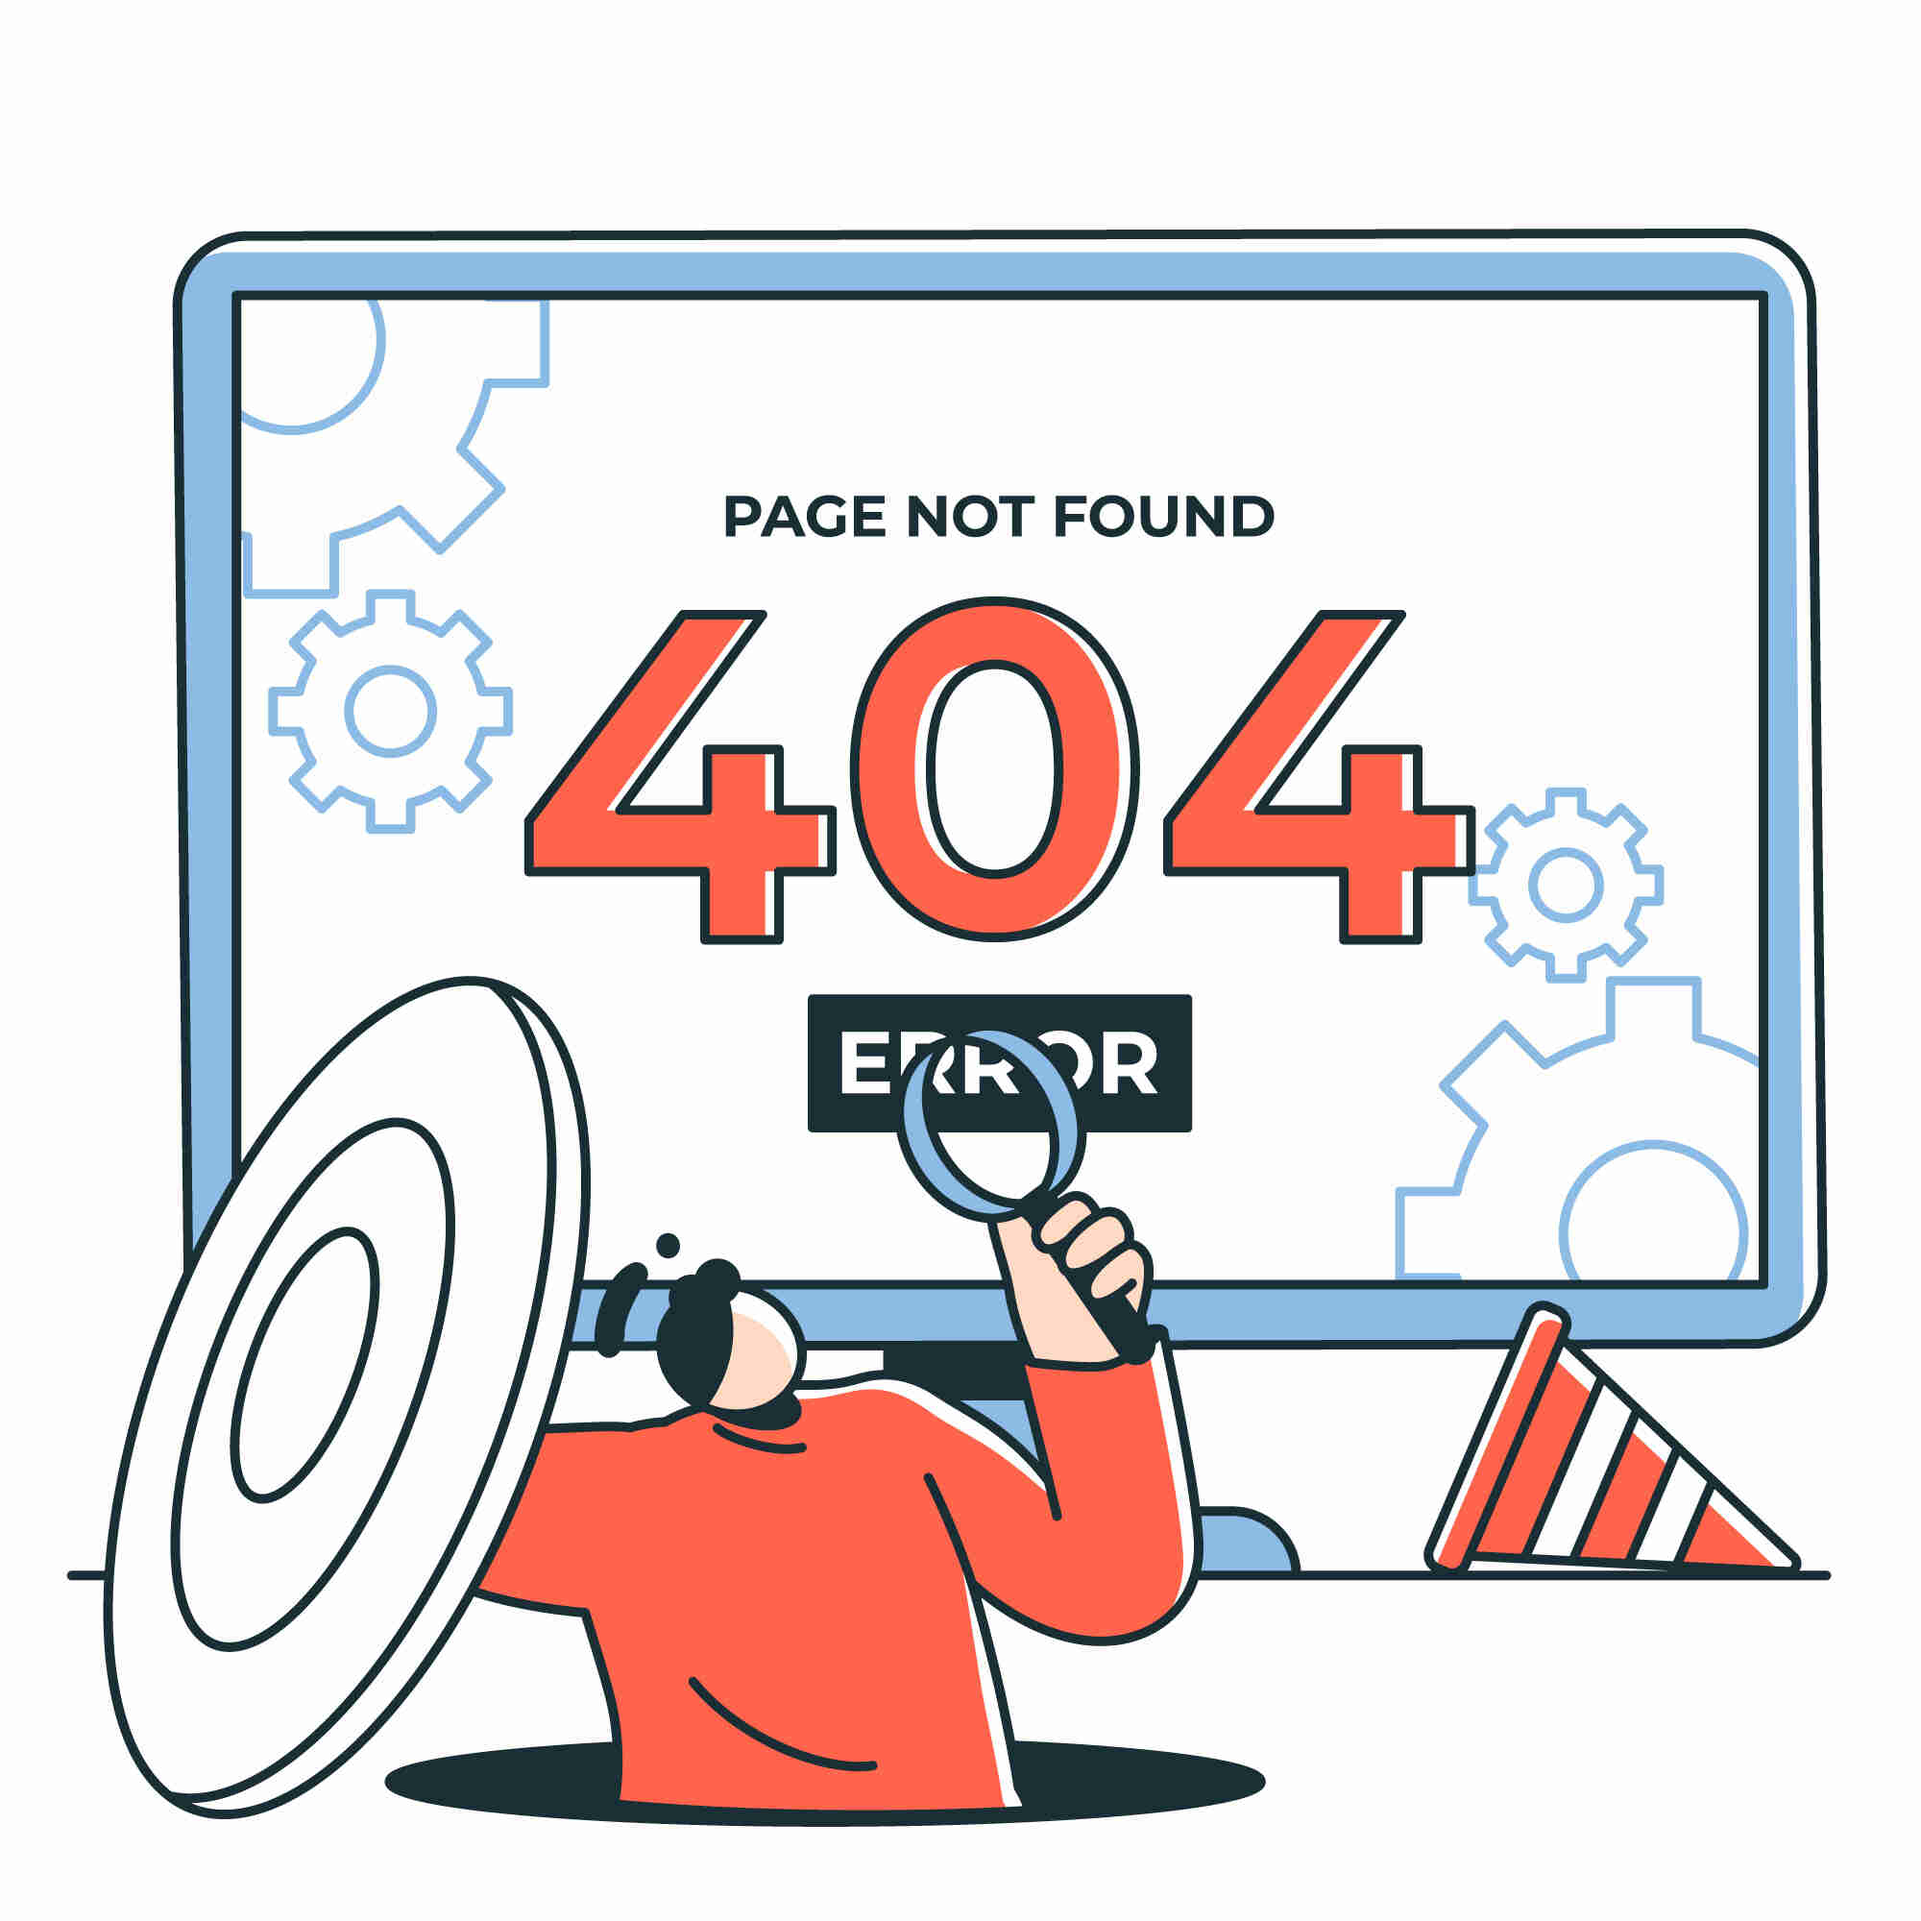
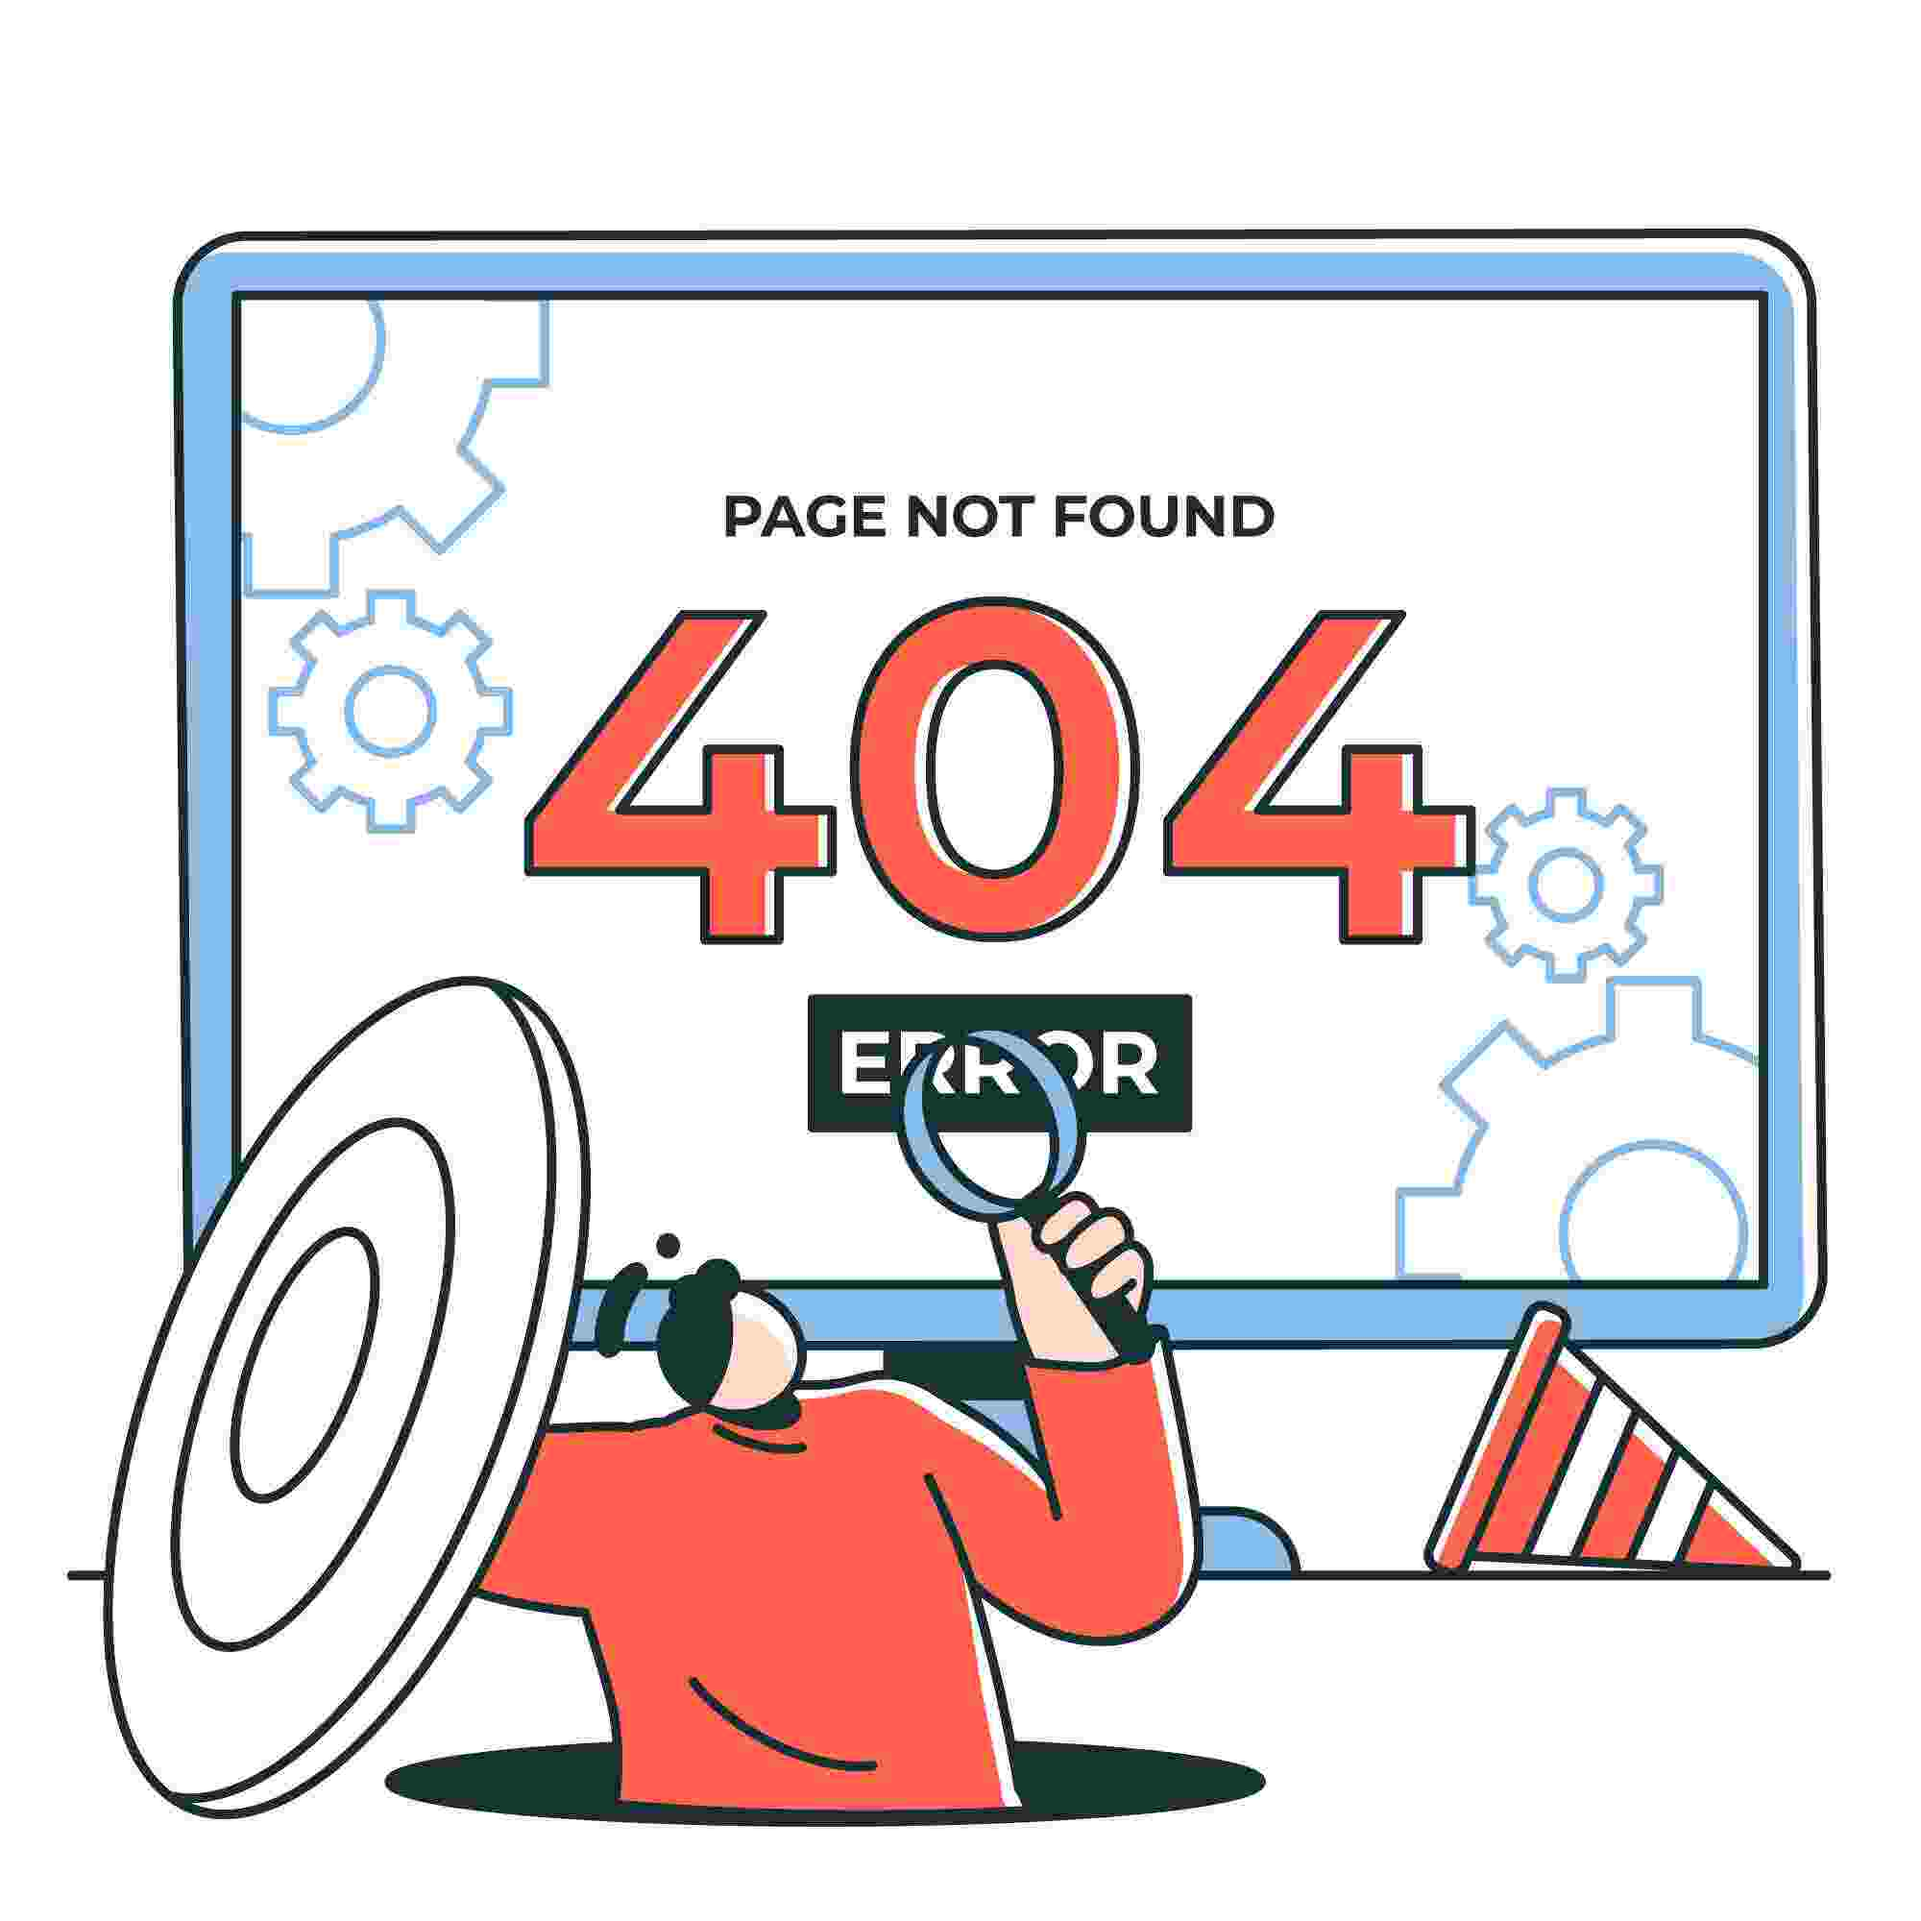
Add Docker support
- Dockerfile and .dockerignore added.
- angular.json modified at configurations > production > budgets >
  maximumWarning changed to 1MB and  maximumError changed to 2MB
- Update README to add docker.
- page-not-found.jpg size reduced.

diff --git a/README.md b/README.md
@@ -7,30 +7,48 @@ This project was generated with [Angular CLI](https://github.com/angular/angular
 ## Prerequisites
 
 1. **Clone and run the Birthday-Keeper REST API**: Follow the instructions specified [here](https://github.com/mkoutra/birthday-keeper).
-   
-2. **Ensure Node.js and npm are installed**: The application was developed with npm version 10.8.2.
 
-3. **Install Angular CLI**: Ensure Angular CLI version 18.2.8 is installed on your system. Run:
+## Development Setup
+
+### Option 1: Docker
+
+1. **Ensure Docker is installed and running on your system**.
+
+2. **Build the Docker image**:
+   ```bash
+   docker build -t birthday-keeper-front-img .
+   ```
+3. **Run the Docker container**:
+   ```bash
+   docker run -p 4200:80 --name birthday-keeper-front-container birthday-keeper-front-img
+   ```
+4. **Access the application**:
+   Open your browser and navigate to [http://localhost:4200](http://localhost:4200).
+
+
+### Option 2: Local Development
+
+1. **Ensure Node.js and npm are installed**: The application was developed with **node v20.17.0** and **npm 10.8.2**.
+
+2. **Install Angular CLI**: Ensure Angular CLI version 18.2.8 is installed on your system. Run:
    ```bash
    npm install -g @angular/cli@18.2.8
    ```
 
-## Development Setup
-
-1. **Clone this repository**:
+3. **Clone this repository**:
    ```bash
    git clone https://github.com/mkoutra/birthday-keeper-angular.git
    cd birthday-keeper-angular
    ```
-2. **Install dependencies**:
+4. **Install dependencies**:
    ```bash
    npm install
    ```
-3. **Run the development server**:
+5. **Run the development server**:
    ```bash
    ng serve
    ```
-4. **Access the application**:
+6. **Access the application**:
    Open your browser and navigate to [http://localhost:4200](http://localhost:4200).
 
 ## Build
@@ -42,10 +60,6 @@ To build the project for production:
    ng build
    ```
 2. The build artifacts will be stored in the `dist/` directory.
-
-## Docker Support (Coming Soon)
-
-A Docker setup will soon be available to streamline running the application. Stay tuned for updates.
 
 ## Screenshots
 
